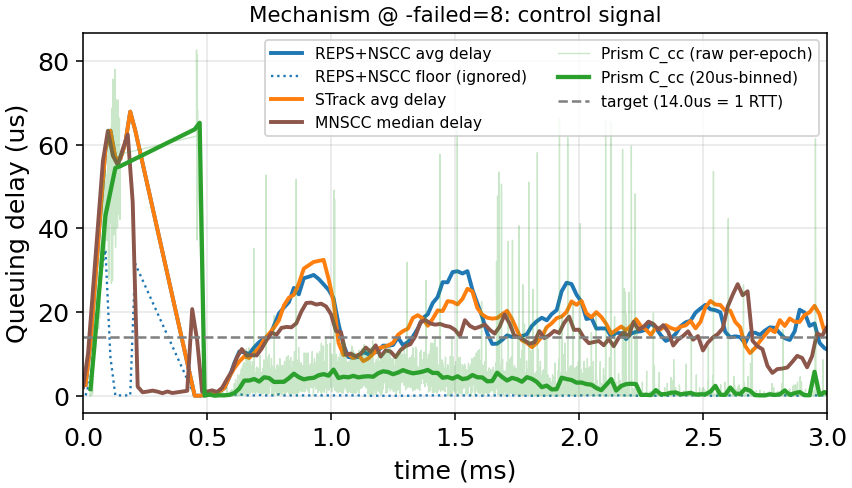
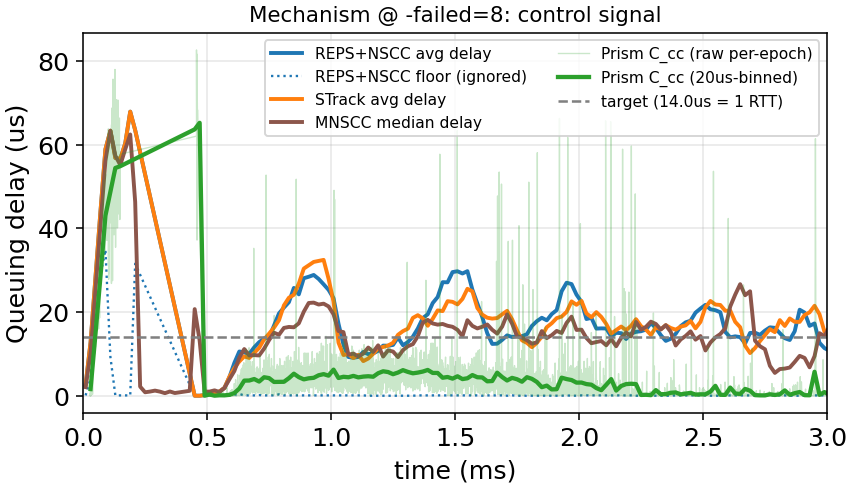
prism_eval: align MNSCC median signal line to bin midpoint; fix repro-count comment

diff --git a/htsim/sim/datacenter/prism_eval/common/perf_figs.py b/htsim/sim/datacenter/prism_eval/common/perf_figs.py
@@ -49,7 +49,7 @@ def _read_mnscc_median(path, bin_us=20):
                 continue
             acc[int(p[0]) // (bin_us * 1000)].append(int(p[2]) / 1000.0)  # ns->us
     xs = sorted(acc)
-    return [b * bin_us / 1000.0 for b in xs], [sum(acc[b]) / len(acc[b]) for b in xs]  # x in ms
+    return [(b + 0.5) * bin_us / 1000.0 for b in xs], [sum(acc[b]) / len(acc[b]) for b in xs]  # x in ms
 
 def _bin_series(xs, ys, bin_w):
     """Bin (xs, ys) into width-`bin_w` buckets on x; return (bucket_mid_x, mean_y). Used as a

diff --git a/htsim/sim/datacenter/prism_eval/expA_delaydriven/README.md b/htsim/sim/datacenter/prism_eval/expA_delaydriven/README.md
@@ -242,5 +242,5 @@ short under asymmetry because the median of spread-inflated samples is still spr
 
 ## Reproduce
 ```
-bash prism_eval/expA_delaydriven/repro.sh   # from sim/datacenter; ~175 failed-sweep + 4 mechanism + 125 offered-load sims
+bash prism_eval/expA_delaydriven/repro.sh   # from sim/datacenter; ~210 failed-sweep + 5 mechanism + 150 offered-load sims
 ```
